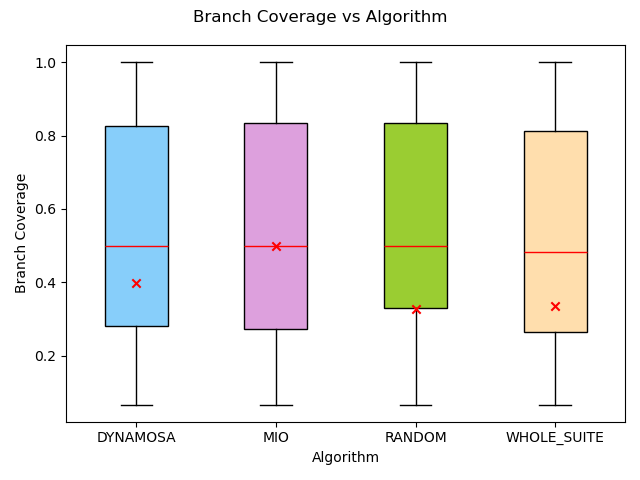
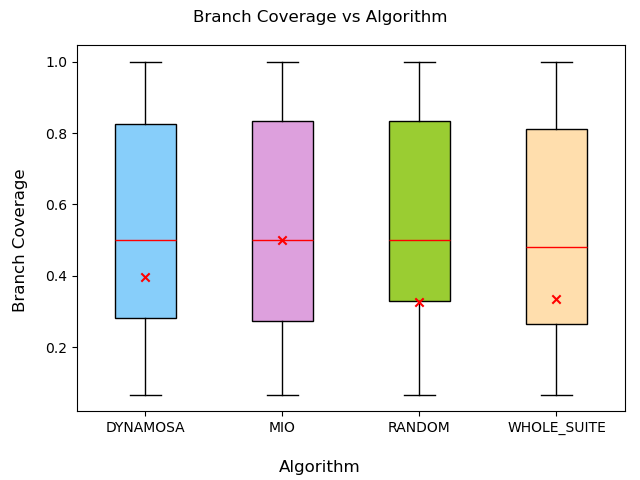
add data subsets and sub-subplots to plot_gathered.py

diff --git a/plot_gathered.py b/plot_gathered.py
@@ -1,22 +1,49 @@
 import matplotlib.pyplot as plt
 import json, os, sys
 import scipy as sp
+
+def make_lambda(vStr):
+    maybe = lambda x: x
+    if vStr[0] == '!':
+        vStr = vStr[1:]
+        maybe = lambda x: not(x)
         
+    if ',' in vStr:
+        vals = vStr.split(',')
+        return lambda x: maybe(str(x) in vals)
+    elif len(vStr)>1 and vStr[1] == '=':
+        val = float(vStr[2:])
+        if vStr[0] == '<':
+            return lambda x: maybe(x <= val)
+        elif vStr[0] == '>':
+            return lambda x: maybe(x >= val)
+    elif len(vStr)>0 and vStr[0] in '<>':
+        val = float(vStr[1:])
+        if vStr[0] == '<':
+            return lambda x: maybe(x < val)
+        elif vStr[0] == '>':
+            return lambda x: maybe(x > val)
+    else:
+        return lambda x: maybe(str(x) == vStr)
+
 def filter_scale(data, key, filters=[], scale=1.0) -> tuple[list, float, float]:
     ret = []
+    corresponding_data = []
     minVal = None
     maxVal = None
+    parsed_filters = [(k, make_lambda(v)) for k,v in filters]
     
     for i,v in enumerate(data[key]):
-        if all([data[k][i] == v for k,v in filters]):
+        if all([f(data[k][i]) for k,f in parsed_filters]):
             val = v*scale
             if minVal == None or minVal > val: minVal = val
             if maxVal == None or maxVal < val: maxVal = val
             ret.append(val)
+            corresponding_data.append({k: v[i] for k,v in data.items() if isinstance(v, list) and k != key})
             
     if minVal == None or maxVal == None: minVal = maxVal = 0
     
-    return ret, minVal, maxVal
+    return ret, corresponding_data, minVal, maxVal
 
 def load_data(path, derive_metrics=[]):
     with open(os.path.abspath(path), 'r') as f:
@@ -30,6 +57,12 @@ def load_data(path, derive_metrics=[]):
         
     return data
 
+def load_data_with_mutation_stats(path):
+    return load_data(path, derive_metrics=[
+        (["mutants_generated", "mutants_surviving"], "mutants_killed", lambda g,s: g-s),
+        (["mutants_generated", "mutants_killed"], "mutation_score", lambda g,k: k/g if g != 0 else 0)
+    ] if path=="all_data.json" else [])
+
 alg_color = {
     "DYNAMOSA": "lightskyblue",
     "MIO": "plum",
@@ -37,39 +70,56 @@ alg_color = {
     "WHOLE_SUITE": "navajowhite"
 }
 
-def plot_box(variable, varName, algorithms, outName, file):
-    data = load_data(file, derive_metrics=[
-        (["mutants_generated", "mutants_surviving"], "mutants_killed", lambda g,s: g-s),
-        (["mutants_generated", "mutants_killed"], "mutation_score", lambda g,k: k/g if g != 0 else 0)
-    ] if file=="all_data.json" else [])
-    
-    if algorithms == []:
-        algorithms = sorted(list(set(data['algorithm']))) # ["DYNAMOSA", "MIO", "WHOLE_SUITE", "RANDOM"]
-        
-    variable_data = [
-        filter_scale(data, variable, [("algorithm", a)])[0]
-        for a in algorithms
-    ]
-    
-    fig, ax = plt.subplots()
-    title = f'{varName} vs Algorithm'
-    ax.set_ylabel(varName)
-    ax.set_xlabel('Algorithm')
-    
-    for i,a in enumerate(algorithms):
-        redist_values = [v for v in filter_scale(data, variable, [("algorithm", a), ("project", "redistricting")])[0]]
-        if len(redist_values) == 0: continue
-        
-        redist_y = sp.ndimage.median(redist_values)
-        redist_x = [i+1]
-        ax.scatter(redist_x, redist_y, marker="x", color="red", zorder=2)
+def ind(alg, grouping):
+    for i,g in enumerate(grouping):
+        if alg in g: return i
+    return -1
 
-    bplot = ax.boxplot(x=variable_data, patch_artist=True, labels=algorithms, zorder=1)
-    for patch, color in zip(bplot['boxes'], [alg_color[a] for a in algorithms]):
-        patch.set_facecolor(color)
+def plot_box(variable, varName, plot_to_alg, outName, file):
+    data = load_data_with_mutation_stats(file)
+    
+    algorithms = sorted(list(set(data['algorithm']))) # ["DYNAMOSA", "MIO", "WHOLE_SUITE", "RANDOM"]
+    if plot_to_alg == []:
+        plot_to_alg = [algorithms]
+        alg_to_plot = {a: 0 for a in algorithms}
+    else:
+        alg_to_plot = {a: ind(a, plot_to_alg) for a in algorithms}
+    groups = len(plot_to_alg)
+    x_pad = 0.5**len(plot_to_alg)
         
-    for median in bplot['medians']:
-        median.set_color('red')
+    variable_data = [[
+        filter_scale(data, variable, [("algorithm", alg)])[0]
+        for alg in group
+    ] for group in plot_to_alg]
+    
+    fig, axs = plt.subplots(ncols=groups, width_ratios=[len(g) for g in plot_to_alg])
+    try:
+        axs = list(axs)
+    except:
+        axs = [axs]
+    title = f'{varName} vs Algorithm'
+    fig.supylabel(varName)
+    fig.supxlabel("Algorithm")
+    for i,ax in enumerate(axs):
+        ax.set_xlim(left=1-x_pad, right=len(plot_to_alg[i])+x_pad)
+    
+    for i in range(groups):
+        for j,a in enumerate(plot_to_alg[i]):
+            redist_values = [v for v in filter_scale(data, variable, [("algorithm", a), ("project", "redistricting")])[0]]
+            if len(redist_values) == 0: continue
+            
+            plot = alg_to_plot[a]
+            redist_y = sp.ndimage.median(redist_values)
+            redist_x = [j+1]
+            axs[plot].scatter(redist_x, redist_y, marker="x", color="red", zorder=2)
+
+        algs = plot_to_alg[i]
+        bplot = axs[i].boxplot(x=variable_data[i], patch_artist=True, labels=algs, zorder=1)
+        
+        for patch, color in zip(bplot['boxes'], [alg_color[a] for a in algs]):
+            patch.set_facecolor(color)
+        for median in bplot['medians']:
+            median.set_color('red')
     
     fig.suptitle(title)
     fig.set_layout_engine("tight")
@@ -78,10 +128,7 @@ def plot_box(variable, varName, algorithms, outName, file):
     fig.savefig(os.path.abspath(save_path))
     
 def u_test(variable, file, althyp='two-sided'):
-    data = load_data(file, derive_metrics=[
-        (["mutants_generated", "mutants_surviving"], "mutants_killed", lambda g,s: g-s),
-        (["mutants_generated", "mutants_killed"], "mutation_score", lambda g,k: k/g if g != 0 else 0)
-    ] if file=="all_data.json" else [])
+    data = load_data_with_mutation_stats(file)
         
     algorithms = sorted(list(set(data['algorithm']))) # ["DYNAMOSA", "MIO", "WHOLE_SUITE", "RANDOM"]
     variable_data = [
@@ -111,8 +158,7 @@ if __name__=='__main__':
             ("coverage", "Branch Coverage", [], "branch_coverage-box_plots.png"),
             ("mutants_killed", "Mutants Killed", [], "mutants_killed-box_plots.png"),
             ("mutation_score", "Mutation Score", [], "mutation_score-box_plots.png"),
-            ("test_count", "Number of Tests Generated", ["DYNAMOSA", "MIO", "WHOLE_SUITE"], "test_count-no_random-box_plots.png"),
-            ("test_count", "Number of Tests Generated", ["RANDOM"], "test_count-only_random-box_plots.png")
+            ("test_count", "Number of Tests Generated", [["DYNAMOSA", "MIO", "WHOLE_SUITE"], ["RANDOM"]], "test_count-box_plots.png")
         ]:
             plot_box(var, varName, algs, fileName, "all_data.json")
     elif sys.argv[1] == "2": # fault detection box plots
@@ -123,3 +169,11 @@ if __name__=='__main__':
     elif sys.argv[1] == "3": # u test values
         for var in ["coverage", "mutants_killed", "mutation_score", "test_count"]:
             u_test(var, "all_data.json")
+    else: # print data subset (sys.argv == [filePath variableName key1 value1 key2 value2 ...])
+        data = load_data_with_mutation_stats(sys.argv[1])
+        filtered_data = filter_scale(data, sys.argv[2], [
+            (sys.argv[i], sys.argv[i+1]) for i in range(3, len(sys.argv), 2)
+        ])
+        for d,c in zip(*filtered_data[:2]):
+            print('   ', d, c)
+        print(len(filtered_data[0]), 'items found')
